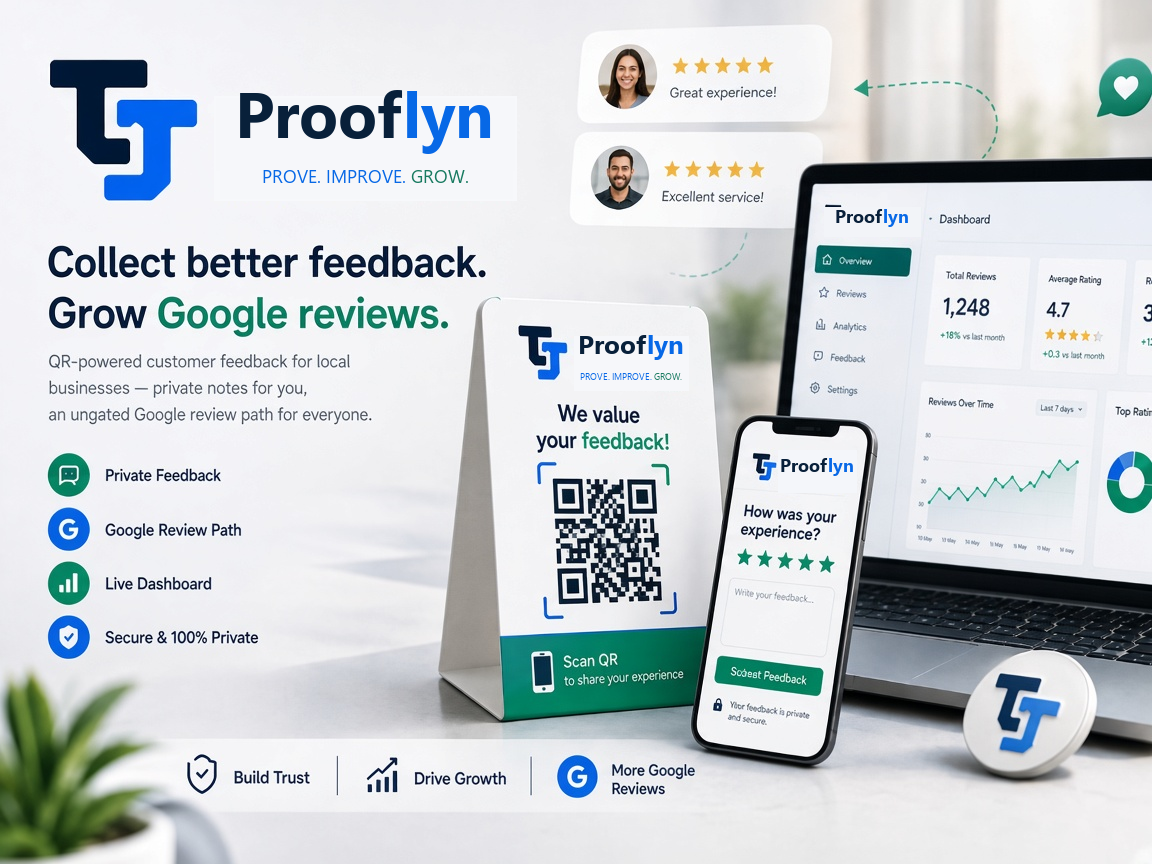
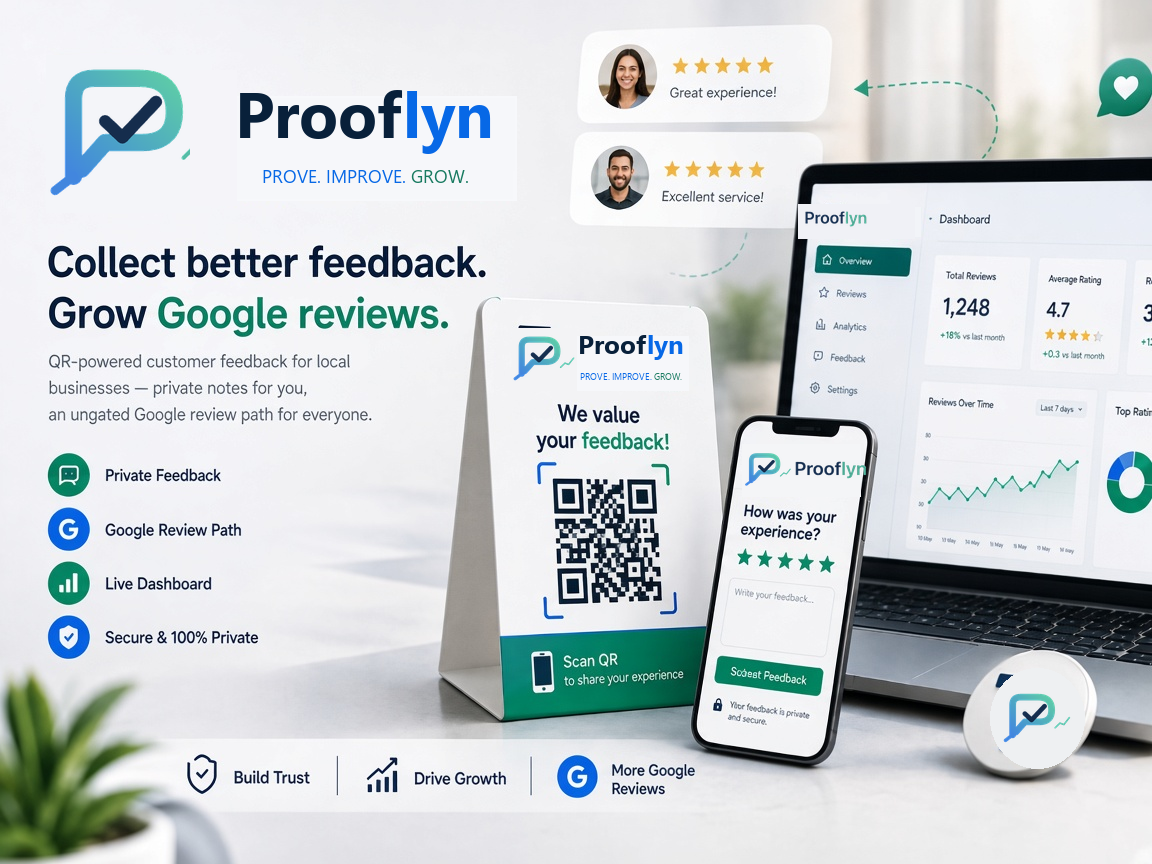
Use the new Prooflyn mark across the site and hero image.
Replace the old TT mark in headers, favicon, and the landing hero so the supplied Prooflyn logo is what visitors see.

diff --git a/frontend/components/brand/prooflyn-logo.tsx b/frontend/components/brand/prooflyn-logo.tsx
@@ -12,15 +12,14 @@ type ProoflynLogoProps = {
 };
 
 function Wordmark({
-  tone,
+  inverse,
   tagline,
   stacked,
 }: {
-  tone: ProoflynLogoTone;
+  inverse: boolean;
   tagline: boolean;
   stacked: boolean;
 }) {
-  const inverse = tone === "inverse" || tone === "mono";
   return (
     <span
       className={cn(
@@ -28,20 +27,17 @@ function Wordmark({
         stacked ? "items-center text-center" : "items-start text-left"
       )}
     >
-      <span
-        className={cn(
-          "font-semibold tracking-tight",
-          stacked ? "text-2xl sm:text-3xl" : "text-[1.35rem] sm:text-[1.5rem]"
-        )}
-      >
-        <span className={inverse ? "text-white" : "text-navy"}>Proof</span>
-        <span className={inverse ? "text-sky-300" : "text-brand"}>lyn</span>
-      </span>
-      {tagline || stacked ? (
+      {/* eslint-disable-next-line @next/next/no-img-element */}
+      <img
+        src={inverse ? "/images/brand/prooflyn-word-inverse.png" : "/images/brand/prooflyn-word.png"}
+        alt=""
+        className={cn("w-auto object-contain", tagline ? "h-6 sm:h-7" : "h-7 sm:h-8")}
+      />
+      {tagline ? (
         <span
           className={cn(
-            "mt-1 text-[0.58rem] font-semibold uppercase tracking-[0.18em]",
-            inverse ? "text-sky-200/90" : "text-[#5bb8e8]"
+            "mt-1 text-[0.58rem] font-semibold uppercase tracking-[0.16em]",
+            inverse ? "text-white/80" : "text-[#506070]"
           )}
         >
           Prove. Improve. Grow.
@@ -51,7 +47,7 @@ function Wordmark({
   );
 }
 
-/** Official Prooflyn lockup — mark image + live wordmark. */
+/** Official Prooflyn lockup — supplied mark and wordmark. */
 export function ProoflynLogo({
   variant = "horizontal",
   tone = "color",
@@ -61,17 +57,17 @@ export function ProoflynLogo({
 }: ProoflynLogoProps) {
   const inverse = tone === "inverse" || tone === "mono";
   const markSrc = inverse
-    ? "/images/brand/logo-mark-inverse.png"
-    : "/images/brand/logo-mark.png";
+    ? "/images/brand/prooflyn-mark-inverse.png"
+    : "/images/brand/prooflyn-mark.png";
   const isMark = variant === "mark";
   const showTagline = tagline || variant === "stacked";
   const markHeight = isMark
-    ? "h-8 w-auto"
+    ? "h-10 w-auto"
     : variant === "stacked"
-      ? "h-12 w-auto sm:h-14"
+      ? "h-14 w-auto sm:h-16"
       : showTagline
-        ? "h-10 w-auto sm:h-11"
-        : "h-8 w-auto sm:h-9";
+        ? "h-11 w-auto sm:h-12"
+        : "h-9 w-auto sm:h-10";
 
   if (isMark) {
     return (
@@ -87,7 +83,7 @@ export function ProoflynLogo({
   if (variant === "wordmark") {
     return (
       <span className={cn("inline-flex", className)} aria-label="Prooflyn">
-        <Wordmark tone={tone} tagline={showTagline} stacked={false} />
+        <Wordmark inverse={inverse} tagline={showTagline} stacked={false} />
       </span>
     );
   }
@@ -108,7 +104,7 @@ export function ProoflynLogo({
         aria-hidden
         className={cn("shrink-0 object-contain", markHeight, markClassName)}
       />
-      <Wordmark tone={tone} tagline={showTagline} stacked={variant === "stacked"} />
+      <Wordmark inverse={inverse} tagline={showTagline} stacked={variant === "stacked"} />
     </span>
   );
 }
@@ -124,8 +120,8 @@ export function ProoflynMark({
 }) {
   const src =
     tone === "inverse" || tone === "mono"
-      ? "/images/brand/logo-mark-inverse.png"
-      : "/images/brand/logo-mark.png";
+      ? "/images/brand/prooflyn-mark-inverse.png"
+      : "/images/brand/prooflyn-mark.png";
 
   return (
     // eslint-disable-next-line @next/next/no-img-element

diff --git a/frontend/views/review-page.tsx b/frontend/views/review-page.tsx
@@ -39,7 +39,7 @@ export default async function ReviewPage({ params }: ReviewPageProps) {
   return (
     <CustomerPageShell>
       <header className="space-y-3">
-        <ProoflynLogo variant="horizontal" tagline className="text-sm" markClassName="h-8 w-8" />
+        <ProoflynLogo variant="horizontal" tagline className="text-sm" markClassName="h-9 w-auto" />
         <p className="text-sm font-medium text-muted">{business.name}</p>
         <h1 className="text-2xl font-semibold tracking-tight text-foreground break-words sm:text-3xl">
           How was your experience?

diff --git a/frontend/components/landing/landing-page.tsx b/frontend/components/landing/landing-page.tsx
@@ -270,7 +270,7 @@ export function LandingPage({ plans = [] }: { plans?: PublicPlanCard[] }) {
             />
             {/* eslint-disable-next-line @next/next/no-img-element */}
             <img
-              src="/images/prooflyn-hero.png?v=prooflyn2"
+              src="/images/prooflyn-hero.png?v=prooflyn4"
               alt="Prooflyn QR stand, mobile feedback form, and live dashboard"
               className="relative w-full rounded-[28px] border border-border bg-white object-contain shadow-[var(--shadow-lg)]"
             />

diff --git a/frontend/views/feedback-page.tsx b/frontend/views/feedback-page.tsx
@@ -36,7 +36,7 @@ export default async function FeedbackPage({ params }: FeedbackPageProps) {
 
   return (
     <CustomerPageShell>
-      <ProoflynLogo variant="horizontal" tagline className="text-sm" markClassName="h-8 w-8" />
+      <ProoflynLogo variant="horizontal" tagline className="text-sm" markClassName="h-9 w-auto" />
       <Link
         href={`/r/${slug}`}
         className="mt-3 inline-flex min-h-[44px] items-center gap-1 text-base font-medium text-brand hover:underline sm:text-sm"

diff --git a/frontend/views/not-found-page.tsx b/frontend/views/not-found-page.tsx
@@ -10,7 +10,7 @@ export default function NotFoundPage() {
     <CustomerPageShell className="items-center justify-center text-center">
       <Card className="w-full">
         <div className="mx-auto flex justify-center">
-          <ProoflynLogo variant="mark" markClassName="h-12 w-12" />
+          <ProoflynLogo variant="mark" markClassName="h-14 w-auto" />
         </div>
         <h1 className="mt-4 text-2xl font-semibold tracking-tight">
           This feedback link is not available
